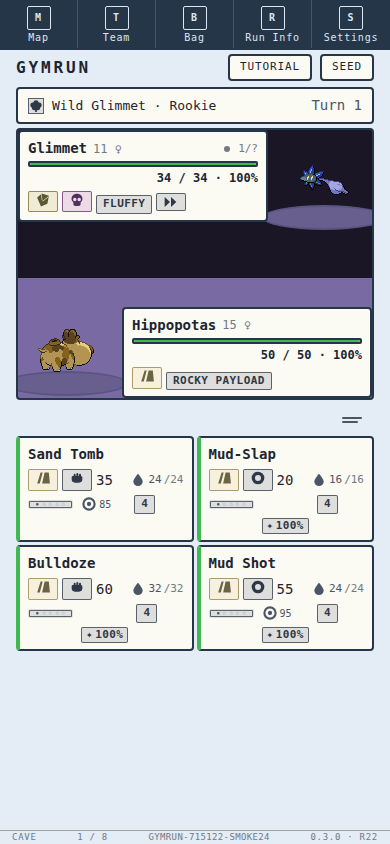
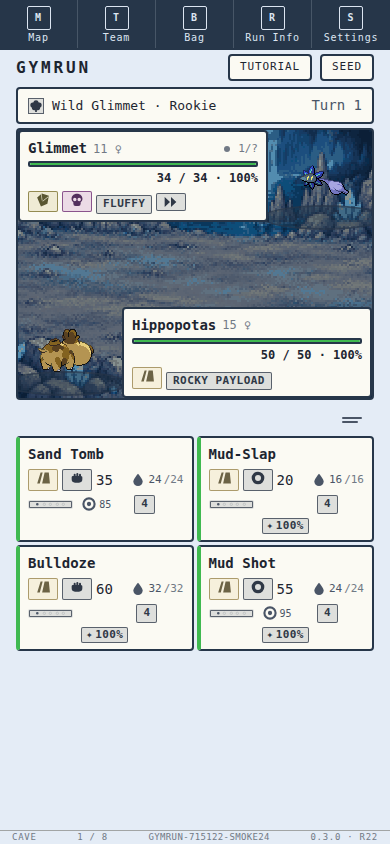
5.0/2 report: the backdrops by region and by field state, and notes for the asset pipeline
Claude-Session: https://claude.ai/code/session_01F9Uyfiz7Gce4jZQ6Rx3XRr

Changed region(s): [[0.0308, 0.154, 0.9538, 0.4929]]

diff --git a/docs/visual/reports/5.0-stage2.md b/docs/visual/reports/5.0-stage2.md
@@ -17,7 +17,7 @@ review. Record: [`../../generation.md`](../../generation.md) §88.
 
 | Clause | Result |
 |---|---|
-| Looks like the reference's middle panel | Title bar, then the staged scene: opponent's HP box upper left with its sprite upper right on a platform, player's sprite lower left on a platform with its HP box lower right, then the move grid, then Switch. Placeholder backdrops until 5.0/5. |
+| Looks like the reference's middle panel | Title bar, then the staged scene on its region's painted backdrop: opponent's HP box upper left with its sprite upper right on a platform, player's sprite lower left on a platform with its HP box lower right, then the move grid, then Switch. |
 | Everything to pick a move on screen, no scroll | Yes. At 390x844 the fourth move button ends at y=651 (the 740 line holds) and the frame's scroller does not scroll (`visual-v0`, new). At 1366x768 the whole screen, Switch included, fits the frame. |
 | A full fight plays with the existing animations | Yes: the smoke run and the browser motion suites pass. No beat was touched. |
 | WebKit and a real iPhone | **Not run.** This sandbox has Chromium only. They are the reviewer's, as at 5.0/1. |
@@ -30,10 +30,9 @@ fight with a bench, the bench opened by Switch, and a forced switch.
 
 - **D60, the scene backdrop.** The stage asks the manifest for
   `battle-backdrop:<locale>`, or `battle-backdrop:gym` at a gym, and records the
-  key on `data-backdrop`. Every key is still a placeholder: the locale's own
-  tint, or a gym tint of its own. A file, when the art pass drops one in, sits
-  over the tint, so a missing or broken file shows the placeholder at the
-  stage's size. The weather wash and terrain tint stay on the stage, over
+  key on `data-backdrop`. All nine keys resolve to the author's art (below). The
+  drawing sits over a placeholder tint (the locale's own, or a gym tint), so a
+  missing or broken file shows the placeholder at the stage's size. The weather wash and terrain tint stay on the stage, over
   whichever backdrop it has. The World behind the frame is untouched.
 - **Platforms.** A CSS ellipse under each sprite, outside the actor so a beat
   moves the Pokemon and not its ground.
@@ -84,6 +83,49 @@ the plan. `heights.json` re-recorded: the battle screen is 564px (was 563), the
 fourth move button ends at 651 (was 623), and the instrument now reads the
 frame's scroller, so `scrollHeight` is the scroller's and `clientHeight` is new.
 
+## The battle backdrops, brought forward from 5.0/5
+
+The author delivered all nine paintings inside this stage so the asset pipeline
+could be judged against the real screen
+([`../../spec/gymrun-stage5.0-battle-backdrops.md`](../../spec/gymrun-stage5.0-battle-backdrops.md)).
+Every battle now stands on its region's art, or the gym's. Sheets:
+[`5.0-stage2/backdrops-phone.png`](5.0-stage2/backdrops-phone.png) (all nine on a
+phone) and [`5.0-stage2/backdrops-by-field.png`](5.0-stage2/backdrops-by-field.png)
+(nine backdrops by ten field states: none, five weathers, four terrains).
+
+**How they got in.** Native 224x136 (the author's call, over the spike's 216x170),
+drawn at 2 CSS px an art pixel, bottom-centre, never stretched.
+`scripts/visual/backdrops.py` converts each 1536x1024 painting: crop sky to
+224:136, area-average down, quantise to 48 colours. 147,633 bytes for nine, one
+fetched per fight.
+
+**What the pipeline should change**, in the order it matters:
+
+1. **Composition against the HP boxes.** The opponent's box covers the stage's
+   upper left, about 60% of the width and 35% of the height, and that is where
+   every painting puts its landmark: the gym's banners and torches, the ruins'
+   arch, the city's towers, the cave's crystals. What the player sees is mostly
+   ground plus a slice of the upper right. Ask for the landmark in the **upper
+   right**, behind the opponent, and plain ground in the middle band.
+2. **The lower left is behind the player's back sprite.** Busy foreground props
+   there (crystals, pillars, rocks) compete with the sprite's silhouette. Ask
+   for low detail there, and leave the lower right plain: the player's box
+   covers it.
+3. **Generate on the grid.** The paintings' pseudo-pixels are 6 to 7 px and do
+   not align to anything, so the conversion has to average them and colours
+   blur at edges. Ask for exactly 224x136, or an exact multiple (1792x1088 at
+   8x) with 8px-aligned pixels, no anti-aliasing, a palette of 32 to 48.
+4. **Aspect.** Ask for 224:136 (about 1.65:1) directly; 3:2 costs 91 rows of
+   sky at the crop.
+5. **The gym's emblem is a Poke Ball**, on the floor and every banner. The plan's
+   wordmark rule is *"Original. No Poke Ball."*; the same caution applies here.
+   It is in as delivered; replacing it is the author's call.
+
+**Under the field states.** Every wash and tint is visible on every backdrop.
+The weakest pairs are snow on summit and sun or sand on badlands, where the wash
+is close to the art's own colour; the header's field glyph carries the state
+either way, colour secondary (section 2).
+
 ## Gates, as run here
 
 | Gate | Result |
@@ -92,6 +134,7 @@ frame's scroller, so `scrollHeight` is the scroller's and `clientHeight` is new.
 | Node suite and strict trim | 147 files, 1,950 tests, all passing. Three `[vitest-worker]: Timeout calling "onTaskUpdate"` errors, the sandbox symptom `../../generation.md` already records; the same three appear on the pre-5.0/2 tree here. |
 | Smoke run | Passes, same-seed rematch identical; moves end at y=643, panels at y=398 |
 | Chromium suite | 27 of 28 files green on the stage's first build, then the ten battle and layout files (82 tests) green again on the final one. **`visual-chips` times out in its 900-second setup hook**, as it did on the pre-5.0 build in this sandbox (5.0/1's report); CI is its check. |
+| With the backdrops in | Node suite, smoke, lint and types green again. The first browser run broke every gallery-based file (`visual-field`, `visual-v5`'s loaded board, `visual-sprites`): the gallery threw *"URL is not a constructor"* (`../../generation.md` §88 item 18). After the fix those files and the manifest tests are green, 44 of 44. |
 | WebKit, a real iPhone | Not run: Chromium only here. |
 
 ## Census (D74)
@@ -128,7 +171,7 @@ Re-recorded with `npm run census`. Moved:
 
 ## Known gaps
 
-- **Placeholders.** Every backdrop is a tint until 5.0/5.
+- **The backdrops are a first pass**; see the pipeline notes above. The map's eight are still placeholders.
 - **Sprites stay 96px.** Whole-multiple scaling allows only 192, which does not
   leave the HP boxes room at 390. The reference's larger sprites are a 5.0/5
   question with real backdrops.

diff --git a/docs/README.md b/docs/README.md
@@ -66,7 +66,7 @@ and run log structure. Where `CLAUDE.md` states an architecture invariant,
 
 ## 4. Current state
 
-**In flight: Stage 5.0, the visual redesign ([`spec/gymrun-stage5.0-visual-redesign.md`](spec/gymrun-stage5.0-visual-redesign.md)). 5.0/0, the spike and audit, is done on `claude/hopeful-shannon-kch3gw` and stopped for review.** The report is [`visual/reports/5.0-stage0-spike.md`](visual/reports/5.0-stage0-spike.md). It filed D50 to D76 in the discrepancy register. The author ruled D50 and D52 to D55 the same day ([`spec/gymrun-stage5.0-rulings-d50-d55.md`](spec/gymrun-stage5.0-rulings-d50-d55.md)); the bible is at **Rev 15** (one face and no density setting, tabs open screens, a mid-run Run Info screen, a `currency` family, and Run Progress as a decision feed replayed from the run log), recorded in [`generation.md` §87](generation.md). **5.0/1 is built and stopped for review**: one face with the density setting deleted, the shell nav with its read-only guard, the decision feed, Run Info and Settings screens, the desktop sidebar, the light palette and the asset manifest. Report [`visual/reports/5.0-stage1.md`](visual/reports/5.0-stage1.md), record [`generation.md` §87](generation.md). **D56 to D60 were ruled the same day** ([`spec/gymrun-stage5.0-rulings-d56-d60.md`](spec/gymrun-stage5.0-rulings-d56-d60.md)): the HP box is the panel restyled with every fact, the move button is the full move card, the header stays above the stage, D26's log handle stands with no Info button, and the World stays behind the frame while the painted backdrops live inside it. Bible **Rev 16**, [`generation.md` §88](generation.md). The author confirmed D60's reading and ruled D62 option 1 everywhere ([`spec/gymrun-stage5.0-rulings-d60-d62-and-stage2.md`](spec/gymrun-stage5.0-rulings-d60-d62-and-stage2.md)). **5.0/2, the battle screen, is built on `claude/wizardly-wright-cum8e0` and stopped for review**: the stage on its scene backdrop with platforms, the HP boxes and move buttons restyled with every fact kept, the header row with section 6's turn header built for the first time, the strip under the stage, and the bench behind a Switch button. Report [`visual/reports/5.0-stage2.md`](visual/reports/5.0-stage2.md), record [`generation.md` §88](generation.md). WebKit and a real iPhone are the reviewer's. 5.0/3 (cards) waits on D65 to D71.
+**In flight: Stage 5.0, the visual redesign ([`spec/gymrun-stage5.0-visual-redesign.md`](spec/gymrun-stage5.0-visual-redesign.md)). 5.0/0, the spike and audit, is done on `claude/hopeful-shannon-kch3gw` and stopped for review.** The report is [`visual/reports/5.0-stage0-spike.md`](visual/reports/5.0-stage0-spike.md). It filed D50 to D76 in the discrepancy register. The author ruled D50 and D52 to D55 the same day ([`spec/gymrun-stage5.0-rulings-d50-d55.md`](spec/gymrun-stage5.0-rulings-d50-d55.md)); the bible is at **Rev 15** (one face and no density setting, tabs open screens, a mid-run Run Info screen, a `currency` family, and Run Progress as a decision feed replayed from the run log), recorded in [`generation.md` §87](generation.md). **5.0/1 is built and stopped for review**: one face with the density setting deleted, the shell nav with its read-only guard, the decision feed, Run Info and Settings screens, the desktop sidebar, the light palette and the asset manifest. Report [`visual/reports/5.0-stage1.md`](visual/reports/5.0-stage1.md), record [`generation.md` §87](generation.md). **D56 to D60 were ruled the same day** ([`spec/gymrun-stage5.0-rulings-d56-d60.md`](spec/gymrun-stage5.0-rulings-d56-d60.md)): the HP box is the panel restyled with every fact, the move button is the full move card, the header stays above the stage, D26's log handle stands with no Info button, and the World stays behind the frame while the painted backdrops live inside it. Bible **Rev 16**, [`generation.md` §88](generation.md). The author confirmed D60's reading and ruled D62 option 1 everywhere ([`spec/gymrun-stage5.0-rulings-d60-d62-and-stage2.md`](spec/gymrun-stage5.0-rulings-d60-d62-and-stage2.md)). **5.0/2, the battle screen, is built on `claude/wizardly-wright-cum8e0` and stopped for review**: the stage on its scene backdrop with platforms, the HP boxes and move buttons restyled with every fact kept, the header row with section 6's turn header built for the first time, the strip under the stage, and the bench behind a Switch button. The nine battle backdrops came forward from 5.0/5 into this stage at the author's request, converted from paintings at 224x136, with notes for the asset pipeline in the report. Report [`visual/reports/5.0-stage2.md`](visual/reports/5.0-stage2.md), record [`generation.md` §88](generation.md). WebKit and a real iPhone are the reviewer's. 5.0/3 (cards) waits on D65 to D71.
 
 **In flight: the 4.10 presentation milestones, Tier 6 merged as [#68](https://github.com/y-wang217/Pocket-Randomizer/pull/68); patch 4.10.1 built on `claude/map-icons-conversion-plan-tvab5v`; Tier 7 next.**
 Patch 4.10.1 makes the map's node kinds marks — a head, a bush, a tent, a

diff --git a/docs/generation.md b/docs/generation.md
@@ -11772,3 +11772,29 @@ axis moves and `contentHash` holds; nothing under `core/` or `data/` changed.
     since the frame is never wider than 480px; the first is folded into
     `.move`, the second was already the base value. The orphaned comments for
     the deleted type watermark went with them.
+
+**The battle backdrops, brought forward from 5.0/5, 2026-09-30.** The author
+delivered all nine paintings inside this stage to judge the asset pipeline
+([`spec/gymrun-stage5.0-battle-backdrops.md`](spec/gymrun-stage5.0-battle-backdrops.md)).
+
+15. **The battle backdrop's native size is 224x136, not the spike's 216x170**,
+    the author's call on the recommendation. The stage is 272px tall, so 136
+    rows at 2 CSS px fill it; 224 columns cover the widest frame (444px). A
+    drawing is drawn at whole art pixels, anchored bottom-centre, never
+    stretched: phones show the middle 177 columns, the desktop frame 197.
+16. **The paintings are converted, not dropped in.** They arrive at 1536x1024
+    in a pixel-art look, not on a grid. `scripts/visual/backdrops.py` crops to
+    224:136 by trimming sky (the horizon lands near 37%, where the opponent's
+    platform stands), area-averages down, and quantises to 48 colours with no
+    dither. It needs Pillow, which nothing in the build or the suite imports.
+    The nine files total 147,633 bytes; one is fetched per fight, never at
+    first load.
+17. **On a drawing, the placeholder's ground steps aside** and its layer carries
+    only a terrain's tint from 40% down; the platforms become translucent
+    shadows, because the locale tint read as a purple disc on sand.
+18. **`assetUrl` names the global `URL`**, which is a bundling fix and not a
+    style: `@pkmn/img` declares a module-level `var URL`, and in the gallery
+    bundle, where nothing else named the global, Vite's injected
+    `new URL(file, import.meta.url)` called the library's arrow function and the
+    gallery never became ready. Naming the global makes Rollup rename the
+    library's variable in every bundle.
